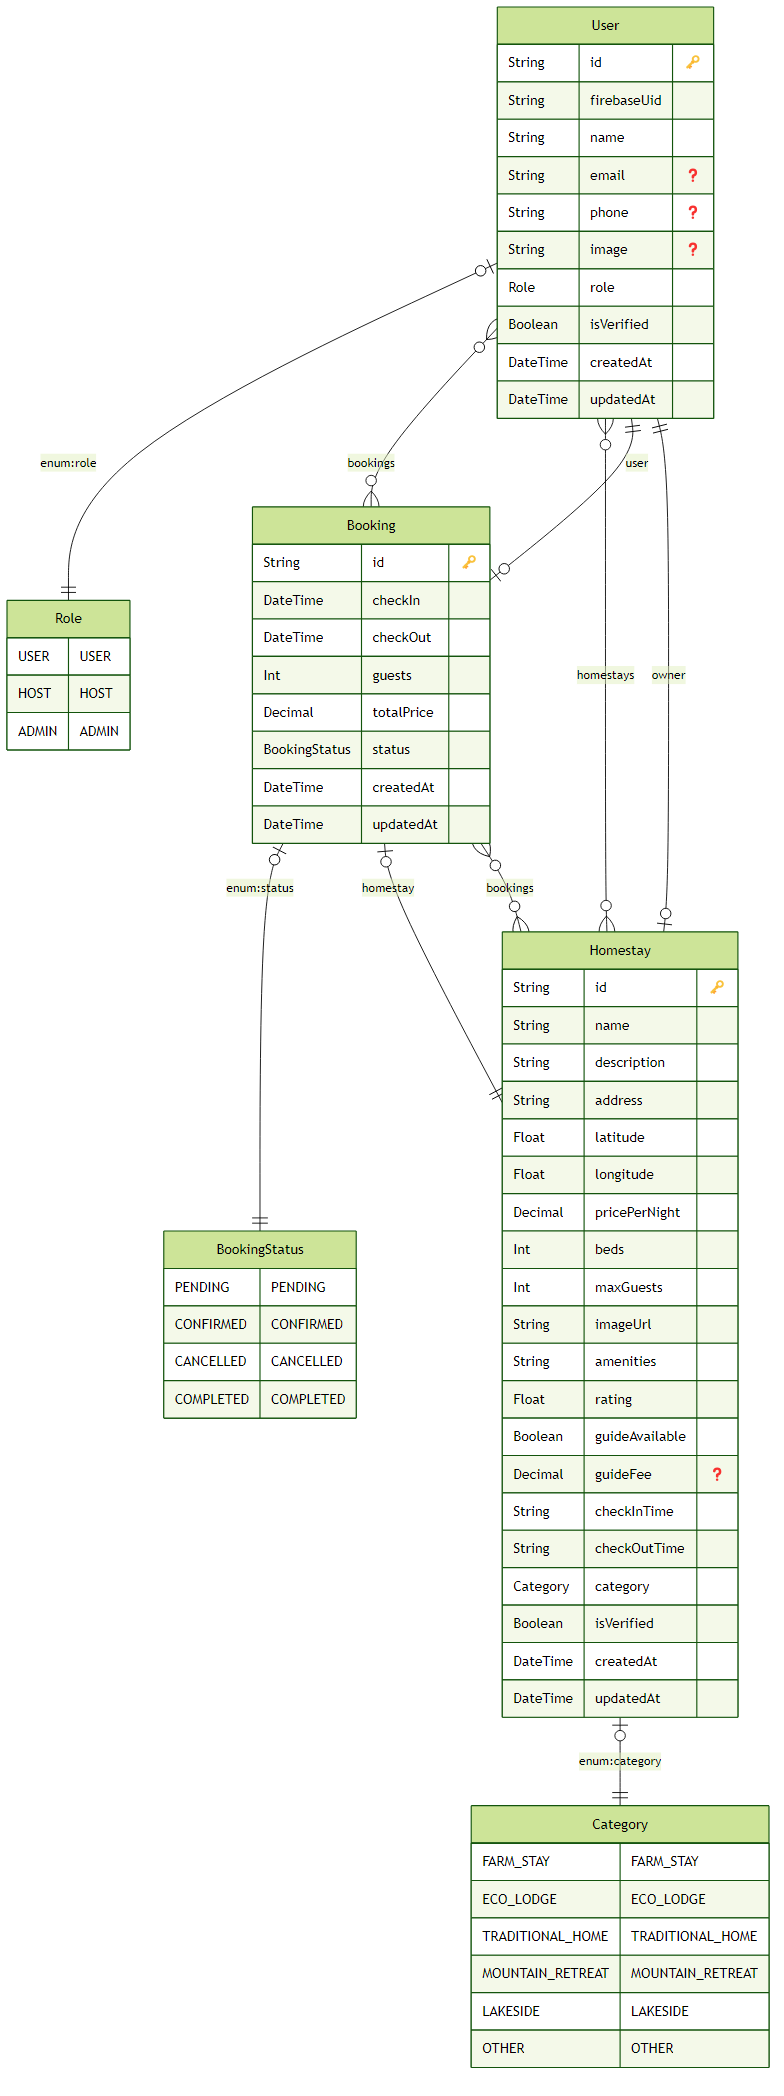
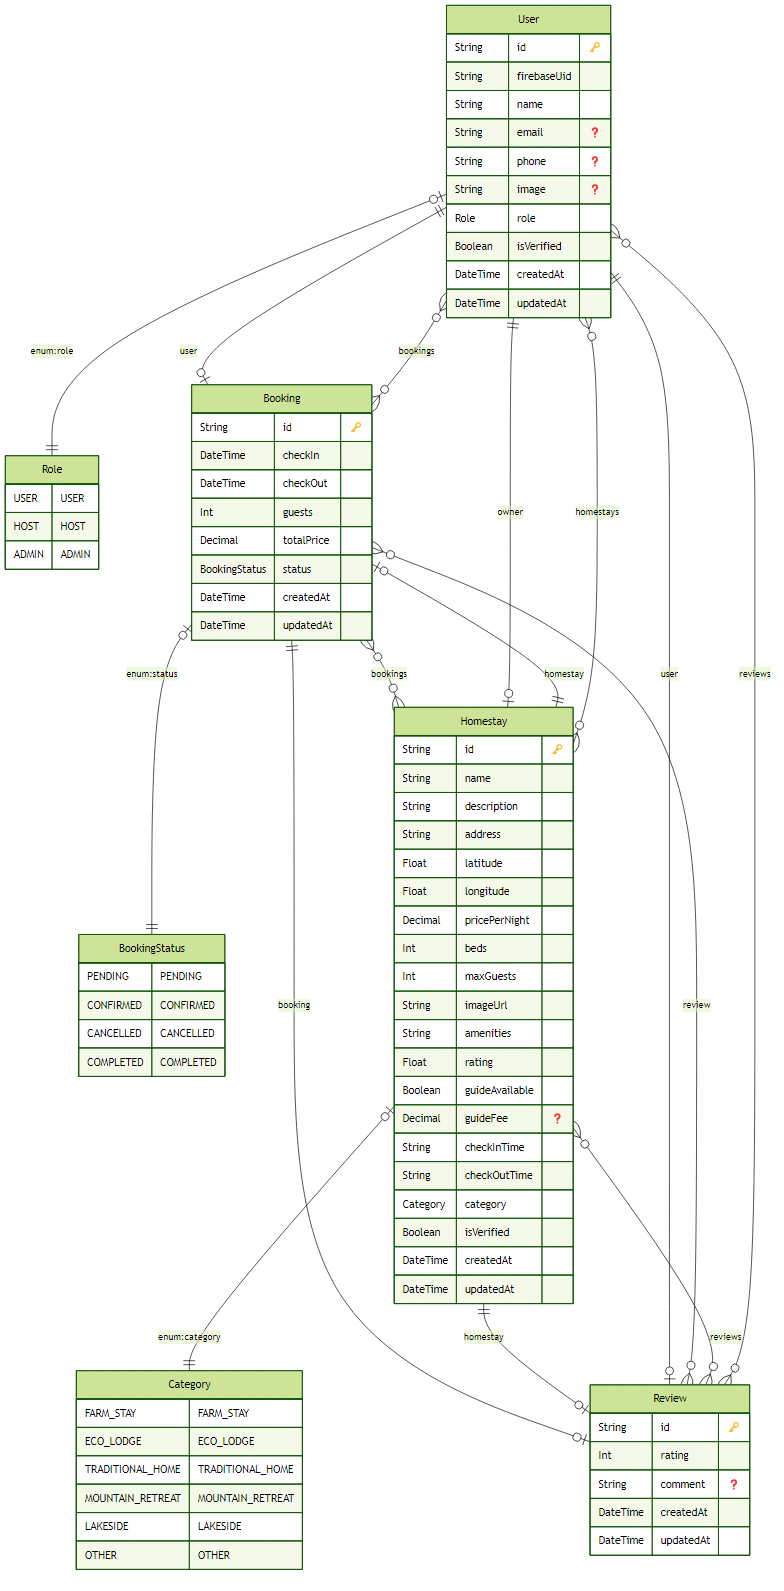
feat(api): add review model and endpoints for managing reviews

diff --git a/src/app/api/reviews/[homestayId]/route.ts b/src/app/api/reviews/[homestayId]/route.ts
@@ -1,0 +1,284 @@
+import { getCurrentUser } from "@/lib/auth/getCurrentUser";
+import { prisma } from "@/lib/prisma";
+import { NextRequest, NextResponse } from "next/server";
+import z from "zod";
+export async function GET(
+  req: NextRequest,
+  { params }: { params: { homestayId: string } }
+) {
+  try {
+    const homestayId = params.homestayId;
+    if (!homestayId) {
+      return NextResponse.json(
+        { error: "Homestay ID is required" },
+        { status: 400 }
+      );
+    }
+
+    const homestay = await prisma.homestay.findUnique({
+      where: { id: homestayId },
+      select: { id: true, name: true },
+    });
+
+    if (!homestay) {
+      return NextResponse.json(
+        { error: "Homestay not found." },
+        { status: 404 }
+      );
+    }
+
+    const url = new URL(req.url);
+    const searchParams = url.searchParams;
+    const limit = Number(searchParams.get("limit") || 20);
+    const page = Number(searchParams.get("page") || 1);
+    const rating = searchParams.get("rating");
+    const sortBy = searchParams.get("sortBy") || "newest";
+
+    const where: any = {
+      homestayId,
+    };
+
+    if (rating) {
+      where.rating = Number(rating);
+    }
+
+    let orderBy: any = { createdAt: "desc" };
+    if (sortBy === "oldest") orderBy = { createdAt: "asc" };
+    if (sortBy === "highest") orderBy = { rating: "desc" };
+    if (sortBy === "oldest") orderBy = { rating: "asc" };
+
+    const skip = (page - 1) * limit;
+
+    const [reviews, totalCount, avgRating] = await Promise.all([
+      prisma.review.findMany({
+        where,
+        orderBy,
+        take: limit,
+        skip,
+        include: {
+          user: {
+            select: {
+              id: true,
+              name: true,
+              image: true,
+            },
+          },
+          booking: {
+            select: {
+              id: true,
+              checkIn: true,
+              checkOut: true,
+              guests: true,
+            },
+          },
+        },
+      }),
+      prisma.review.count({ where }),
+      prisma.review.aggregate({
+        where,
+        _avg: {
+          rating: true,
+        },
+      }),
+    ]);
+
+    const ratingDistribution = await prisma.review.groupBy({
+      by: ["rating"],
+      where,
+      _count: {
+        rating: true,
+      },
+      orderBy: {
+        rating: "desc",
+      },
+    });
+
+    const totalPages = Math.ceil(totalCount / limit);
+    const hasNextPage = page < totalPages;
+    const hasPrevPage = page > 1;
+
+    return NextResponse.json({
+      reviews,
+      homestay: {
+        id: homestay.id,
+        name: homestay.name,
+      },
+      stats: {
+        totalReviews: totalCount,
+        averageRating: Number(avgRating._avg.rating?.toFixed(1)) || 0,
+        ratingDistribution: ratingDistribution.map((item) => ({
+          rating: item.rating,
+          count: item._count.rating,
+        })),
+      },
+      pagination: {
+        currentPage: page,
+        totalPages,
+        totalCount,
+        hasNextPage,
+        hasPrevPage,
+        limit,
+      },
+    });
+  } catch (error: unknown) {
+    console.error("[GET /reviews/[homestayId]] ", error);
+    return NextResponse.json(
+      { error: (error as Error).message || "Internal Server Error" },
+      { status: 500 }
+    );
+  }
+}
+
+const createReviewSchema = z.object({
+  rating: z
+    .number()
+    .int()
+    .min(1, "Rating must be at least 1")
+    .max(5, "Rating must be at most 5"),
+  comment: z
+    .string()
+    .min(10, "Comment must be at least 10 characters")
+    .max(1000, "Comment must be less than 1000 characters")
+    .optional(),
+  bookingId: z.uuid("Invalid booking ID"),
+});
+
+export async function POST(
+  req: NextRequest,
+  { params }: { params: { homestayId: string } }
+) {
+  try {
+    const user = await getCurrentUser();
+
+    if (!user) {
+      return NextResponse.json(
+        { error: "Authentication required." },
+        { status: 401 }
+      );
+    }
+
+    const homestayId = params.homestayId;
+
+    if (!homestayId) {
+      return NextResponse.json(
+        { error: "Homestay ID is required." },
+        { status: 400 }
+      );
+    }
+
+    const body = await req.json();
+    const parsed = createReviewSchema.safeParse(body);
+
+    if (!parsed.success) {
+      return NextResponse.json(
+        { error: parsed.error.format() },
+        { status: 400 }
+      );
+    }
+
+    const { rating, comment, bookingId } = parsed.data;
+
+    const booking = await prisma.booking.findUnique({
+      where: { id: bookingId },
+      include: {
+        homestay: {
+          select: { id: true, name: true },
+        },
+      },
+    });
+
+    if (!booking) {
+      return NextResponse.json(
+        { error: "Booking not found." },
+        { status: 404 }
+      );
+    }
+
+    if (booking.userId !== user.id) {
+      return NextResponse.json(
+        { error: "You can only review your own bookings." },
+        { status: 403 }
+      );
+    }
+
+    if (booking.homestayId !== homestayId) {
+      return NextResponse.json(
+        { error: "Booking does not match the homestay." },
+        { status: 400 }
+      );
+    }
+
+    if (booking.status !== "COMPLETED") {
+      return NextResponse.json(
+        { error: "You can only review completed bookings." },
+        { status: 400 }
+      );
+    }
+
+    const existingReview = await prisma.review.findUnique({
+      where: { bookingId },
+    });
+
+    if (existingReview) {
+      return NextResponse.json(
+        { error: "You have already reviewed this booking." },
+        { status: 400 }
+      );
+    }
+
+    const review = await prisma.review.create({
+      data: {
+        userId: user.id,
+        homestayId,
+        bookingId,
+        rating,
+        comment,
+      },
+      include: {
+        user: {
+          select: {
+            id: true,
+            name: true,
+            image: true,
+          },
+        },
+        booking: {
+          select: {
+            id: true,
+            checkIn: true,
+            checkOut: true,
+            guests: true,
+          },
+        },
+      },
+    });
+
+    const avgRatingResult = await prisma.review.aggregate({
+      where: { homestayId },
+      _avg: {
+        rating: true,
+      },
+    });
+
+    await prisma.homestay.update({
+      where: { id: homestayId },
+      data: {
+        rating: Number(avgRatingResult._avg.rating?.toFixed(1) || 0),
+      },
+    });
+
+    return NextResponse.json(
+      {
+        message: "Review created successfully!",
+        review,
+      },
+      { status: 201 }
+    );
+  } catch (error: unknown) {
+    console.error("[POST /reviews/[homestayId]]", error);
+    return NextResponse.json(
+      { error: (error as Error).message || "Internal Server Error" },
+      { status: 500 }
+    );
+  }
+}

diff --git a/src/app/api/users/me/route.ts b/src/app/api/users/me/route.ts
@@ -50,7 +50,7 @@ export async function DELETE(req: NextRequest) {
   } catch (error) {
     console.error("[DELETE /api/users/me]", error);
     return NextResponse.json(
-      { error: "Internal Server Error" },
+      { error: (error as Error).message || "Internal Server Error" },
       { status: 500 }
     );
   }
@@ -100,7 +100,7 @@ export async function PATCH(req: NextRequest) {
   } catch (error) {
     console.error("[PATCH /api/users/me]", error);
     return NextResponse.json(
-      { error: "Internal Server Error" },
+      { error: (error as Error).message || "Internal Server Error" },
       { status: 500 }
     );
   }

diff --git a/src/app/api/auth/sync/route.ts b/src/app/api/auth/sync/route.ts
@@ -23,7 +23,7 @@ export const POST = async (req: NextRequest) => {
   } catch (error: unknown) {
     console.error("[POST auth/sync]", error);
     return NextResponse.json(
-      { success: false, error: (error as Error).message },
+      { error: (error as Error).message || "Internal Server Error" },
       { status: 500 }
     );
   }

diff --git a/src/app/api/homestays/route.ts b/src/app/api/homestays/route.ts
@@ -60,7 +60,7 @@ export async function GET(req: NextRequest) {
   } catch (error) {
     console.error("[GET /homestays]", error);
     return NextResponse.json(
-      { error: "Failed to fetch homestays." },
+      { error: (error as Error).message || "Internal Server Error" },
       { status: 500 }
     );
   }

diff --git a/src/app/api/bookings/route.ts b/src/app/api/bookings/route.ts
@@ -108,7 +108,7 @@ export async function GET(req: NextRequest) {
   } catch (error) {
     console.error("[GET /bookings]", error);
     return NextResponse.json(
-      { error: "Something went wrong." },
+      { error: (error as Error).message || "Internal Server Error" },
       { status: 500 }
     );
   }

diff --git a/src/app/api/bookings/[id]/route.ts b/src/app/api/bookings/[id]/route.ts
@@ -105,7 +105,7 @@ export async function GET(
   } catch (error: unknown) {
     console.error("[GET /bookings/[id]]", error);
     return NextResponse.json(
-      { error: "Something went wrong." },
+      { error: (error as Error).message || "Internal Server Error" },
       { status: 500 }
     );
   }

diff --git a/src/app/api/homestays/[id]/route.ts b/src/app/api/homestays/[id]/route.ts
@@ -45,7 +45,7 @@ export async function GET(
   } catch (error) {
     console.error("[GET homestays/[id]]", error);
     return NextResponse.json(
-      { error: "Something went wrong." },
+      { error: (error as Error).message || "Internal Server Error" },
       { status: 500 }
     );
   }
